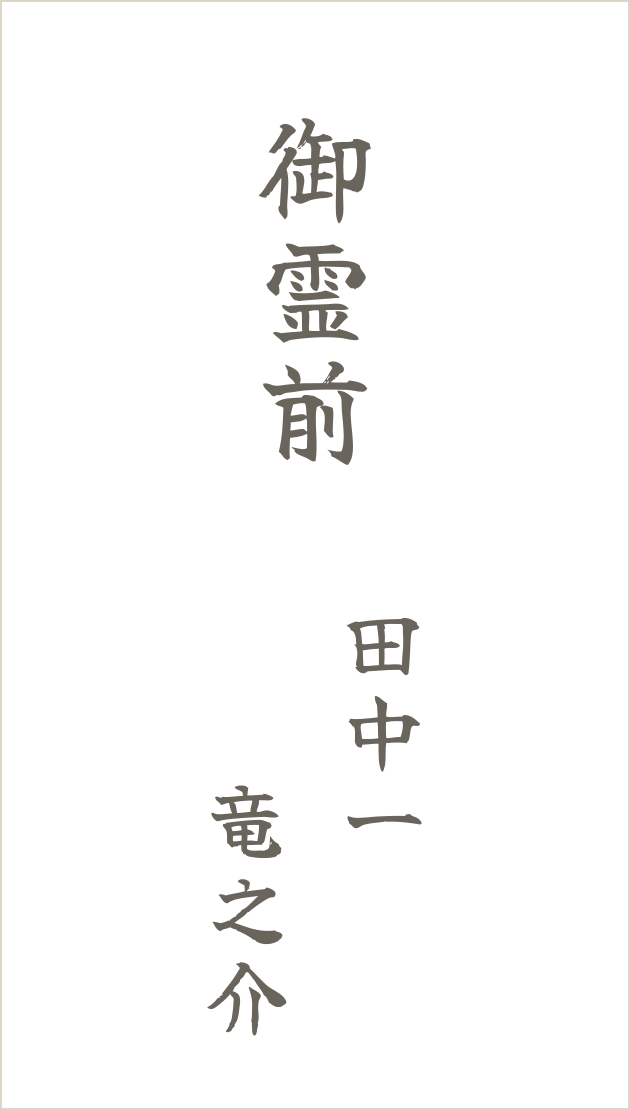
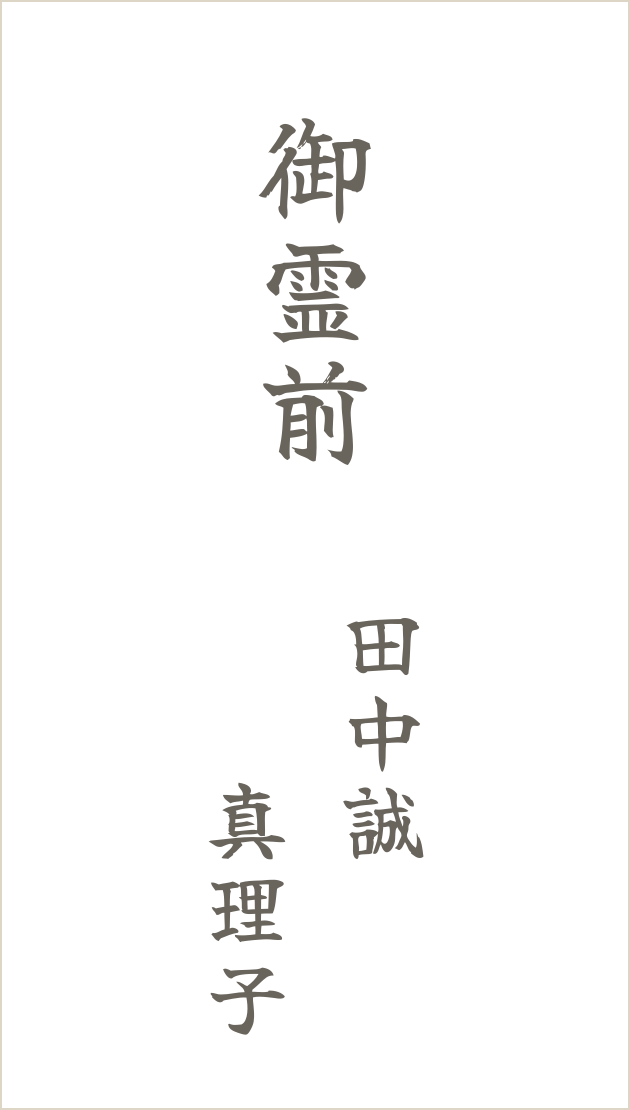
箇条書き余白修正・夫婦例を誠/真理子に・公式App Storeバッジへ差し替え

Changed region(s): [[0.3317, 0.7045, 0.4524, 0.9495], [0.5429, 0.7045, 0.6937, 0.7964]]

diff --git a/omotegaki/guide/kouden-fuufu-renmei/index.html b/omotegaki/guide/kouden-fuufu-renmei/index.html
@@ -33,8 +33,8 @@
 <figure><img src="/omotegaki/img/kouden-fuufu.png" alt="香典袋の夫婦連名の見本。中央に山田太郎、左に花子" width="320" height="564" loading="lazy"><figcaption>夫婦連名の見本: 妻の名前は夫の「名」の高さに頭を揃える</figcaption></figure>
 
 <h2>名前の長さが違うときの揃え方</h2>
-<p>夫の名前が短く妻の名前が長い場合(例: 一と竜之介)でも、揃えるのは「頭の高さ」です。妻の名前が下に長く伸びるのは問題ありません。</p>
-<figure><img src="/omotegaki/img/kouden-fuufu-nagasa.png" alt="名前の長さが違う夫婦連名の見本" width="320" height="564" loading="lazy"><figcaption>頭を夫の「名」に揃えれば、長さが違っても整って見える</figcaption></figure>
+<p>夫の名前が短く妻の名前が長い場合(例: 誠と真理子)でも、揃えるのは「頭の高さ」です。妻の名前が下に長く伸びるのは問題ありません。</p>
+<figure><img src="/omotegaki/img/kouden-fuufu-nagasa.png" alt="名前の長さが違う夫婦連名の見本。田中誠と真理子" width="320" height="564" loading="lazy"><figcaption>頭を夫の「名」に揃えれば、長さが違っても整って見える</figcaption></figure>
 
 <h2>夫婦以外の連名(友人・同僚)は「上端揃え」</h2>
 <p>姓が違う2〜3名の連名は、全員フルネームで書き、<strong>文字の上端を揃えて同じ大きさ</strong>で並べます。目上の人が右です。</p>
@@ -55,7 +55,7 @@
 <div class="cta">
 <p><strong>字に自信がなくても、なぞれば書けます</strong></p>
 <p>無料アプリ「表書き」は、名前を入力すると夫婦連名も作法通りに自動で配置。スマホを袋の下に敷いて、映った毛筆文字をなぞるだけ。</p>
-<a class="btn" href="https://apps.apple.com/jp/app/id6806079105?ct=seo_fuufu">App Storeで見る(無料)</a>
+<a href="https://apps.apple.com/jp/app/id6806079105?ct=seo_fuufu"><img class="appstore-badge" src="/assets/appstore-badge.svg" alt="App Storeでダウンロード" width="168" height="56"></a>
 </div>
 
 <h2>よくある質問</h2>

diff --git a/omotegaki/guide/noshibukuro-namae/index.html b/omotegaki/guide/noshibukuro-namae/index.html
@@ -38,7 +38,7 @@
 <div class="cta">
 <p><strong>ご祝儀袋の名前、なぞれば書けます</strong></p>
 <p>無料アプリ「表書き」は壽・御祝などを選んで名前を入れるだけ。夫婦連名も自動配置、スマホを袋の下に敷いてなぞるだけで毛筆の一枚に。</p>
-<a class="btn" href="https://apps.apple.com/jp/app/id6806079105?ct=seo_noshibukuro">App Storeで見る(無料)</a>
+<a href="https://apps.apple.com/jp/app/id6806079105?ct=seo_noshibukuro"><img class="appstore-badge" src="/assets/appstore-badge.svg" alt="App Storeでダウンロード" width="168" height="56"></a>
 </div>
 
 <footer><p><a href="/omotegaki/guide/nakabukuro-kanji/">中袋の金額の書き方</a> ・ <a href="/omotegaki/">アプリ「表書き」について</a> ・ <a href="/">kiy00.com</a></p></footer>

diff --git a/omotegaki/guide/goreizen-gobutsuzen/index.html b/omotegaki/guide/goreizen-gobutsuzen/index.html
@@ -33,7 +33,7 @@
 <div class="cta">
 <p><strong>用途を選ぶだけで、正しい表書きと墨の濃さに</strong></p>
 <p>無料アプリ「表書き」は御霊前を選ぶと自動で薄墨表示に。名前を入れてなぞるだけで、作法通りの一枚が書けます。</p>
-<a class="btn" href="https://apps.apple.com/jp/app/id6806079105?ct=seo_goreizen">App Storeで見る(無料)</a>
+<a href="https://apps.apple.com/jp/app/id6806079105?ct=seo_goreizen"><img class="appstore-badge" src="/assets/appstore-badge.svg" alt="App Storeでダウンロード" width="168" height="56"></a>
 </div>
 
 <footer><p><a href="/omotegaki/guide/kouden-fuufu-renmei/">夫婦連名の書き方</a> ・ <a href="/omotegaki/guide/nakabukuro-kanji/">中袋の金額の書き方</a> ・ <a href="/">kiy00.com</a></p></footer>

diff --git a/omotegaki/guide/nakabukuro-kanji/index.html b/omotegaki/guide/nakabukuro-kanji/index.html
@@ -37,7 +37,7 @@
 <div class="cta">
 <p><strong>大字への変換、アプリなら自動です</strong></p>
 <p>無料アプリ「表書き」は金額を入力するだけで大字に自動変換。住所の漢数字化も、なぞって書ける見本も。</p>
-<a class="btn" href="https://apps.apple.com/jp/app/id6806079105?ct=seo_nakabukuro">App Storeで見る(無料)</a>
+<a href="https://apps.apple.com/jp/app/id6806079105?ct=seo_nakabukuro"><img class="appstore-badge" src="/assets/appstore-badge.svg" alt="App Storeでダウンロード" width="168" height="56"></a>
 </div>
 
 <footer><p><a href="/omotegaki/guide/kouden-fuufu-renmei/">夫婦連名の書き方</a> ・ <a href="/omotegaki/">アプリ「表書き」について</a> ・ <a href="/">kiy00.com</a></p></footer>

diff --git a/omotegaki/guide/renmei-besshi/index.html b/omotegaki/guide/renmei-besshi/index.html
@@ -33,7 +33,7 @@
 <div class="cta">
 <p><strong>表書きの「代表者名」はアプリでなぞれます</strong></p>
 <p>無料アプリ「表書き」なら、御霊前+代表者名を毛筆見本にしてスマホの上でなぞるだけ。</p>
-<a class="btn" href="https://apps.apple.com/jp/app/id6806079105?ct=seo_besshi">App Storeで見る(無料)</a>
+<a href="https://apps.apple.com/jp/app/id6806079105?ct=seo_besshi"><img class="appstore-badge" src="/assets/appstore-badge.svg" alt="App Storeでダウンロード" width="168" height="56"></a>
 </div>
 
 <footer><p><a href="/omotegaki/guide/kouden-fuufu-renmei/">夫婦連名の書き方</a> ・ <a href="/omotegaki/guide/nakabukuro-kanji/">中袋の金額の書き方</a> ・ <a href="/">kiy00.com</a></p></footer>

diff --git a/omotegaki/index.html b/omotegaki/index.html
@@ -16,7 +16,7 @@
 <p class="lead">急な訃報やお祝いで「袋に名前を書かなければ」という夜に。スマホを袋の下に敷いて、映った毛筆文字をなぞるだけ。表書きは無料、広告もありません。</p>
 
 <div class="cta">
-<a class="btn" href="https://apps.apple.com/jp/app/id6806079105?ct=seo_lp">App Storeで見る(無料)</a>
+<a href="https://apps.apple.com/jp/app/id6806079105?ct=seo_lp"><img class="appstore-badge" src="/assets/appstore-badge.svg" alt="App Storeでダウンロード" width="168" height="56"></a>
 </div>
 
 <h2>できること</h2>

diff --git a/assets/site.css b/assets/site.css
@@ -8,6 +8,9 @@ h1{font-size:26px;margin:28px 0 8px;line-height:1.5}
 h2{font-size:20px;margin:40px 0 12px;padding-left:10px;border-left:4px solid var(--red)}
 h3{font-size:17px;margin:24px 0 8px}
 p{margin:12px 0}
+ul,ol{padding-left:1.5em;margin:12px 0}
+li{margin:6px 0}
+.appstore-badge{height:56px;width:auto}
 .lead{color:var(--gray);font-size:15px}
 figure{margin:20px 0;text-align:center}
 figure img{max-width:320px;width:100%;border:1px solid #e5decf;border-radius:8px;background:#fff}
